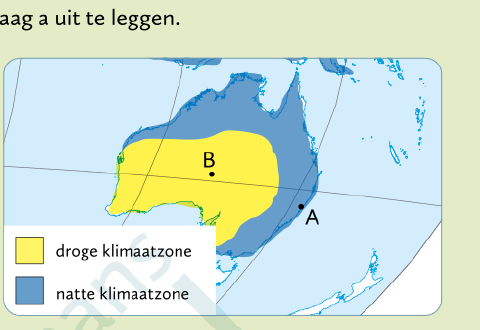
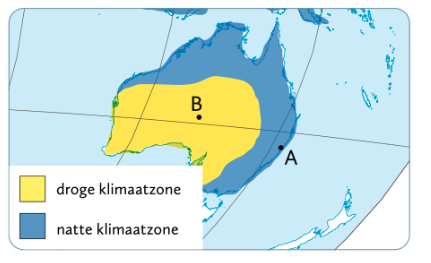
Add files via upload

diff --git a/assets/css/style.css b/assets/css/style.css
@@ -45,7 +45,22 @@ html { scroll-behavior: smooth; }
 body {
   margin: 0;
   font-family: Verdana, Geneva, Tahoma, sans-serif;
-  background: var(--paper);
+  background-color: var(--paper);
+  background-image:
+    radial-gradient(1.5px 1.5px at 6% 12%, rgba(123,79,160,0.35) 100%, transparent 0),
+    radial-gradient(1.5px 1.5px at 18% 38%, rgba(239,91,58,0.3) 100%, transparent 0),
+    radial-gradient(1.5px 1.5px at 32% 8%, rgba(46,196,196,0.3) 100%, transparent 0),
+    radial-gradient(1.5px 1.5px at 47% 28%, rgba(123,79,160,0.3) 100%, transparent 0),
+    radial-gradient(1.5px 1.5px at 61% 6%, rgba(255,178,56,0.35) 100%, transparent 0),
+    radial-gradient(1.5px 1.5px at 74% 34%, rgba(239,91,58,0.28) 100%, transparent 0),
+    radial-gradient(1.5px 1.5px at 88% 14%, rgba(46,196,196,0.3) 100%, transparent 0),
+    radial-gradient(1.5px 1.5px at 12% 62%, rgba(255,178,56,0.3) 100%, transparent 0),
+    radial-gradient(1.5px 1.5px at 40% 78%, rgba(123,79,160,0.28) 100%, transparent 0),
+    radial-gradient(1.5px 1.5px at 68% 68%, rgba(239,91,58,0.3) 100%, transparent 0),
+    radial-gradient(1.5px 1.5px at 92% 86%, rgba(46,196,196,0.3) 100%, transparent 0),
+    radial-gradient(1.5px 1.5px at 24% 94%, rgba(255,178,56,0.3) 100%, transparent 0);
+  background-repeat: repeat;
+  background-size: 480px 480px;
   color: var(--ink);
   line-height: 1.6;
   font-size: 16px;
@@ -426,8 +441,11 @@ section.block {
 
 .block h2 {
   font-size: 1.6rem;
-  margin: 0 0 6px;
+  margin: 0 0 10px;
   color: var(--ink);
+  display: inline-block;
+  padding-bottom: 8px;
+  border-bottom: 3px dashed var(--coral);
 }
 
 .block .block-intro {
@@ -445,10 +463,21 @@ section.block {
 
 .theory-card {
   background: var(--card);
-  border-radius: var(--radius);
-  padding: 22px 24px;
+  border-radius: 6px 26px 6px 26px;
+  padding: 26px 24px 22px;
   box-shadow: var(--shadow);
   position: relative;
+  overflow: hidden;
+}
+.theory-card::before,
+.exam-card::before,
+.map-mission::before,
+.quiz-box::before {
+  content: "";
+  position: absolute;
+  top: 0; left: 0; right: 0;
+  height: 6px;
+  background: linear-gradient(90deg, var(--coral) 0%, var(--sun) 50%, var(--grape) 100%);
 }
 
 .theory-card h3 {
@@ -482,7 +511,7 @@ section.block {
 figure.book-figure {
   margin: 18px 0 0;
   background: var(--card);
-  border-radius: var(--radius);
+  border-radius: 6px 22px 6px 22px;
   padding: 14px;
   box-shadow: var(--shadow-sm);
 }
@@ -536,7 +565,7 @@ figure.book-figure figcaption {
   position: absolute;
   inset: 0;
   backface-visibility: hidden;
-  border-radius: var(--radius);
+  border-radius: 6px 26px 6px 26px;
   display: flex;
   align-items: center;
   justify-content: center;
@@ -585,9 +614,11 @@ figure.book-figure figcaption {
 
 .quiz-box {
   background: var(--card);
-  border-radius: var(--radius);
+  border-radius: 6px 26px 6px 26px;
   box-shadow: var(--shadow);
-  padding: 28px;
+  padding: 32px 28px 28px;
+  position: relative;
+  overflow: hidden;
 }
 
 .quiz-progress {
@@ -749,10 +780,11 @@ figure.book-figure figcaption {
 
 .map-mission {
   background: var(--card);
-  border-radius: var(--radius);
+  border-radius: 6px 26px 6px 26px;
   box-shadow: var(--shadow);
-  padding: 26px;
+  padding: 30px 26px 26px;
   position: relative;
+  overflow: hidden;
 }
 
 .map-mission-title {
@@ -800,12 +832,21 @@ figure.book-figure figcaption {
 /* ---------- Samengevat ---------- */
 
 .samengevat {
-  background: linear-gradient(135deg, var(--mint) 0%, var(--sky) 100%);
+  background: linear-gradient(135deg, var(--grape) 0%, var(--coral) 100%);
   color: #fff;
-  border-radius: var(--radius);
+  border-radius: 6px 26px 6px 26px;
   padding: 28px 28px;
   text-align: center;
   box-shadow: var(--shadow);
+  position: relative;
+  overflow: hidden;
+}
+.samengevat::before {
+  content: "";
+  position: absolute;
+  top: 0; left: 0; right: 0;
+  height: 6px;
+  background: linear-gradient(90deg, var(--sun) 0%, var(--sky) 100%);
 }
 
 .samengevat .block-icon { margin-bottom: 10px; }
@@ -946,9 +987,11 @@ footer a { color: #ffd48a; }
 
 .exam-card {
   background: var(--card);
-  border-radius: var(--radius);
+  border-radius: 6px 26px 6px 26px;
   box-shadow: var(--shadow);
-  padding: 26px;
+  padding: 30px 26px 26px;
+  position: relative;
+  overflow: hidden;
 }
 
 .exam-type {

diff --git a/index.html b/index.html
@@ -146,6 +146,10 @@
       <div class="theory-card">
         <span class="stamp c-leaf"><svg class="icon" aria-hidden="true"><use href="#icon-people"></use></svg> Bevolkingsspreiding</span>
         <h3>De aarde biedt kansen</h3>
+        <figure class="book-figure">
+          <img src="assets/img/nightlights_iss.png" alt="Noord-Amerikaanse steden bij nacht, gezien vanuit het ISS">
+          <figcaption>Noord-Amerikaanse steden bij nacht, gezien vanuit het ISS</figcaption>
+        </figure>
         <p>Zet een nachtbeeld van de aarde naast een dagbeeld en je ziet meteen waar de meeste mensen wonen: felle lichtvlekken in Europa, Noord-Amerika en Azië, en pikdonkere plekken zoals de Sahara, het Amazonewoud en de Himalaya. De <strong>bevolkingsdichtheid</strong> (het aantal mensen per km²) verschilt enorm. Klimaat en reliëf verklaren grotendeels waarom.</p>
         <ul>
           <li><strong>Te droog?</strong> Warme en gematigde gebieden zonder voldoende neerslag bieden weinig kansen voor landbouw → dunbevolkt (bv. de Sahara).</li>
@@ -161,6 +165,10 @@
         <span class="stamp c-coral"><svg class="icon" aria-hidden="true"><use href="#icon-building"></use></svg> De mens creëert kansen</span>
         <h3>De mens creëert kansen</h3>
         <p>De mens laat zich niet zomaar tegenhouden door een ongunstig landschap. Dankzij <strong>irrigatie</strong> is de kurkdroge Nijlvallei dichtbevolkt, en dankzij <strong>terrasbouw</strong> zijn steile hellingen in China en andere Aziatische landen omgetoverd tot landbouwgrond.</p>
+        <figure class="book-figure">
+          <img src="assets/img/terrasbouw.png" alt="Terrasbouw maakt landbouw in reliëfrijke gebieden mogelijk">
+          <figcaption>Terrasbouw maakt landbouw in reliëfrijke gebieden mogelijk</figcaption>
+        </figure>
         <p>Sinds de 19de eeuw gooide de <strong>industriële revolutie</strong> het kaartje helemaal om: betere transporttechnologie liet mensen toe zich te vestigen waar dat voordien niet kon. Miljoenen Europeanen trokken zo naar de oostkust van Noord-Amerika, op zoek naar grondstoffen. Handel en transport werden steeds belangrijker, en steden aan de kust groeiden explosief. Daarom liggen de dichtstbevolkte gebieden van vandaag niet meer overal op de vruchtbaarste landbouwgrond.</p>
       </div>
 
@@ -587,16 +595,16 @@ buildOpenReveal(document.getElementById("exam-australia-open"), {
 });
 
 buildMapExercise(document.getElementById("map-opdracht2a"), {
-  image: "assets/img/opdracht2_stad_kust.svg",
-  alt: "Illustratie van een dichtbebouwde skyline aan een vlakke kust",
+  image: "assets/img/mumbai.png",
+  alt: "Foto van een dichtbebouwde stad in een vlak kustgebied",
   items: [
     { q: "Welke plaats zie je hier: Mumbai of Tibet?", options: ["Mumbai", "Tibet"], correct: 0 }
   ]
 });
 
 buildMapExercise(document.getElementById("map-opdracht2b"), {
-  image: "assets/img/opdracht2_gebergte.svg",
-  alt: "Illustratie van een klooster met gebedsvlaggen hoog in het gebergte",
+  image: "assets/img/tibet.png",
+  alt: "Foto van een klooster met gebedsvlaggen hoog tegen een berghelling",
   items: [
     { q: "Welke plaats zie je hier: Mumbai of Tibet?", options: ["Mumbai", "Tibet"], correct: 1 }
   ]

diff --git a/README.md b/README.md
@@ -14,7 +14,7 @@ shuttle met twee strap-on boosters i.p.v. de slanke vin-raket).
   jouw vraag, omdat de doorstroom-PDF die je aanleverde pas op p. 24 start
   en deze onderdelen niet bevat.
 - **Continenten/werelddelen**: 5 continenten / 8 werelddelen, zoals op de
-  3D/A-site — dit ondanks dat de doorstroom-PDF zelf 6 continenten en 6 of 7
+  3D/A-site. Dit ondanks dat de doorstroom-PDF zelf 6 continenten en 6 of 7
   werelddelen telt (Amerika soms gesplitst). Op jouw keuze bewust niet
   overgenomen.
 - **"De aarde biedt kansen" en "De mens creëert kansen"**: herschreven met
@@ -23,21 +23,23 @@ shuttle met twee strap-on boosters i.p.v. de slanke vin-raket).
   van de kortere opsomming per laag op de 3D/A-site.
 - **Nieuw kaartje "Grondstoffen en bevolkingsspreiding"**: gebaseerd op
   opdracht 3 uit de doorstroom-PDF (Siberië, Zuid-Nigeria, Australië,
-  België, Noorden van Canada) — het besluit dat er géén duidelijke
+  België, Noorden van Canada). Het besluit dat er géén duidelijke
   rechtstreekse relatie is tussen grondstoffen en bevolkingsdichtheid, wat
   in de 3D/A-versie niet aan bod komt.
 - **Extra oefeningen**: een reliëf-vraag over Mumbai/Tibet (opdracht 2), een
   juist/fout-vraag over grondstoffen, en een uitdagingsvraag die
   grondstoffen met klimaat combineert (Zuid-Nigeria vs. Siberië).
-- **Terugkoppelingsmechanismen**: toegevoegd nadat bleek dat dit wél op je echte toets voor dit hoofdstuk staat (positief/negatief, gekoppeld aan de ruimtelijke spreiding van de mens via een stads-/urbanisatievoorbeeld). Ik had hiervoor geen brontekst van je methode, dus dit stuk is zelf uitgeschreven volgens de standaardbetekenis van het begrip — controleer de formulering tegen je handboek/leerplan.
+- **Terugkoppelingsmechanismen**: toegevoegd nadat bleek dat dit wél op je echte toets voor dit hoofdstuk staat (positief/negatief, gekoppeld aan de ruimtelijke spreiding van de mens via een stads-/urbanisatievoorbeeld). Ik had hiervoor geen brontekst van je methode, dus dit stuk is zelf uitgeschreven volgens de standaardbetekenis van het begrip. Controleer de formulering tegen je handboek/leerplan.
 - **Extra oefenkaarten ter voorbereiding op de toets**: terugkoppeling, waarneming via nachtbeelden, terrasbouw en bodemkwaliteit, telkens anders geformuleerd dan de effectieve toetsvragen (niet gekopieerd), maar wel op hetzelfde niveau/type.
 - **Opdracht 1, 2 en 3 (p. 26-27)** staan als herkenbare, apart gelabelde oefeningen bij Kaartmissies (niet enkel verwerkt in de theorie):
   - Opdracht 1 hergebruikt de Australië-klimaatkaarten van de 3D/A-site (zelfde vaardigheid: klimaat + bevolking op de kaart).
-  - Opdracht 2 (Mumbai/Tibet) gebruikt twee **eigen, originele illustraties** (`assets/img/opdracht2_stad_kust.svg` en `assets/img/opdracht2_gebergte.svg`) in plaats van een omschrijving die het antwoord al verklapte: leerlingen herkennen de plaats eerst visueel, en verklaren pas daarna via reliëf. Geen foto's uit het handboek gebruikt (die hadden een watermerk over de hele pagina).
+  - Opdracht 2 (Mumbai/Tibet) gebruikt nu de echte, schone foto's uit het doorstroomboek (`assets/img/mumbai.png` en `assets/img/tibet.png`) in plaats van een omschrijving die het antwoord al verklapte: leerlingen herkennen de plaats eerst visueel, en verklaren pas daarna via reliëf.
   - Opdracht 3 (grondstoffentabel) is nu drie keuzevragen per gebied (dun-/dichtbevolkt, continent, werelddeel) in plaats van open tekstvelden, net als in het handboek. Het besluit ("is er een relatie tussen grondstoffen en bevolkingsspreiding?") staat er apart bij, ongewijzigd.
 - **`map-exercise.js`** is aangepast zodat een kaartoefening ook zonder afbeelding kan (voor opdracht 3, waar er geen kaart bij hoort).
+- **Extra echte foto's uit het doorstroomboek**: het nachtbeeld vanuit het ISS (bij "De aarde biedt kansen") en de terrasbouw-foto (bij "De mens creëert kansen"), beide schone versies zonder watermerk.
+- **Eigen visuele identiteit voorbij de hero**: een subtiel "sterrenveld" over de hele pagina in plaats van enkel in de hero, een gekleurde missiestrook bovenaan elke kaart, asymmetrische paneelhoeken in plaats van de volledig ronde kaarten van 3D/A, en een gestippelde onderlijn bij elke sectietitel. Zo blijft de site herkenbaar anders, ook verder naar beneden op de pagina.
 - **"Wist je dat?"**: een leuk weetje over Monaco (dichtstbevolkt, ruim 25.000 inw./km²) en Mongolië (dunst bevolkt, ca. 2 inw./km²) bij de theorie over bevolkingsspreiding.
-- **Positief/negatief ≠ goed/slecht**: expliciet toegevoegd bij de terugkoppelingstheorie, met een aparte juist/fout-oefenkaart die dat misverstand rechtstreeks test — een negatieve (dempende) terugkoppeling houdt het systeem net stabiel, een positieve (versterkende) kan het net uit evenwicht brengen.
+- **Positief/negatief ≠ goed/slecht**: expliciet toegevoegd bij de terugkoppelingstheorie, met een aparte juist/fout-oefenkaart die dat misverstand rechtstreeks test: een negatieve (dempende) terugkoppeling houdt systeem aarde net stabiel, een positieve (versterkende) kan het net uit evenwicht brengen.
 - De tabeloefeningen uit Test Jezelf 1 (opdracht 1, met een genummerde
   kaart) en Test Jezelf 2 (opdracht 6, coördinaten) zijn **niet**
   overgenomen: de ingevulde antwoorden in die PDF's bevatten fouten (o.a.
@@ -48,7 +50,7 @@ shuttle met twee strap-on boosters i.p.v. de slanke vin-raket).
 
 ## Publiceren op GitHub Pages
 
-1. Maak een nieuwe (of gebruik een bestaande) GitHub-repository — **niet**
+1. Maak een nieuwe (of gebruik een bestaande) GitHub-repository. **Niet**
    dezelfde repo als de 3D/A-site, anders overschrijven de bestanden elkaar.
 2. Upload alle bestanden en mappen uit deze zip naar de root van de
    repository (dus `index.html` en de map `assets/` komen rechtstreeks in
